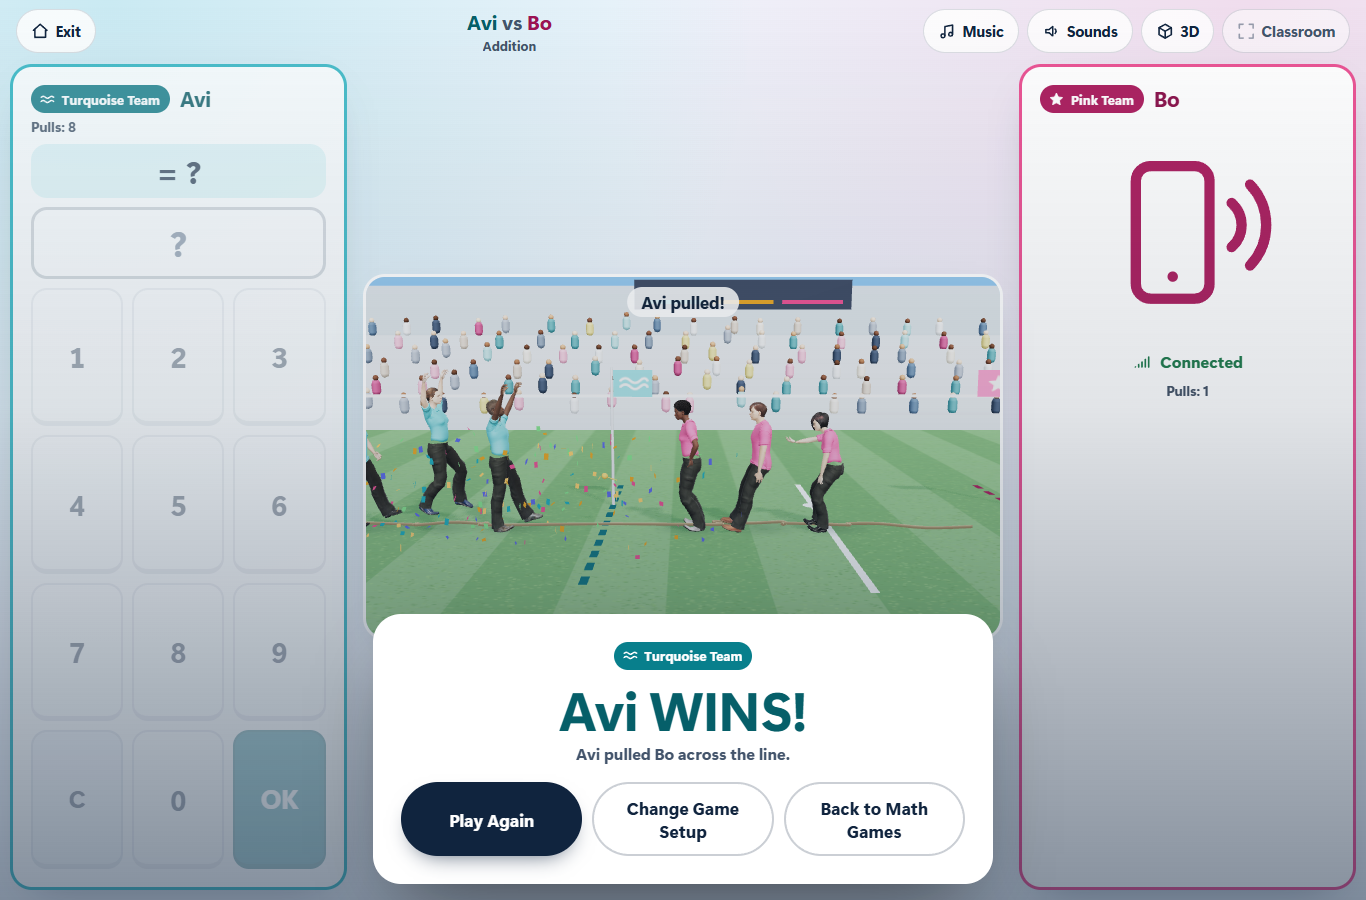
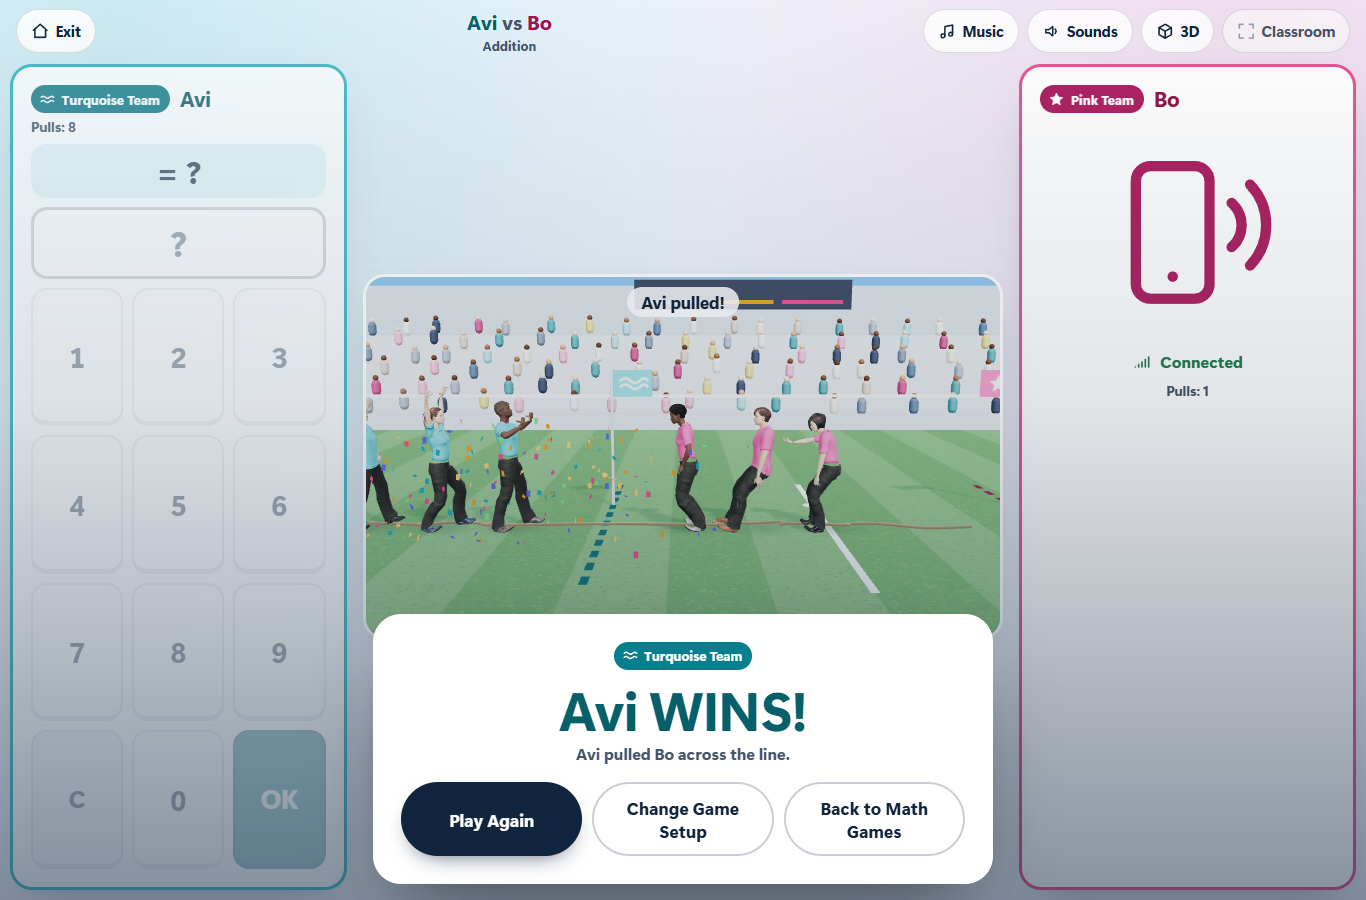
docs(games): Math Tug of War 3D hosted staging round 2 results
Preview dpl_9d6cfMQTAQJuGsd1uCUaumuvoY6M (commit d073832): classic review
99/99, 3D review 37/39 with only the Vercel preview toolbar's CSP refusal
flagged (now treated as preview-only noise by the review script). Round-2
staging screenshots and results recorded; production unchanged.

Changed region(s): [[0.246, 0.3422, 0.6149, 0.5911], [0.4305, 0.3422, 0.4612, 0.3733]]

diff --git a/docs/math-tug-of-war-3d-v1.md b/docs/math-tug-of-war-3d-v1.md
@@ -172,6 +172,10 @@ v1 release and this branch adds no migration.
 (`dpl_D2Mc2wEg3HiueKzqbwKcv2baESAA`, health build `56667b0`). The hosted reviews of that preview found the
 readiness regression described in §5 and it is fixed on the branch; the next push builds the preview to review.
 
+**Round 2 (the build to review).** Push of `d073832` built preview `dpl_9d6cfMQTAQJuGsd1uCUaumuvoY6M`
+(`https://mathnexa-platform-staging-5elpskrut-bright-path-ed-tech.vercel.app`, READY, commit `d073832`);
+`mathnexa.com` still serves `dpl_D2Mc2wEg3HiueKzqbwKcv2baESAA` (health build `56667b0`). Hosted review results: **classic review 99/99** (free-account path, six skills, keypad, Smart Board, phones 320–430, iPad WebKit, reduced motion, Online Match host/guest across Chromium and WebKit with disconnect, reconnect, win, rematch, leave, and two non-subscribers; the round-1 failures are gone); **3D review 37/39** with every hash, asset, CSP, device, fallback and online-3D check passing; the two flags were the Vercel preview toolbar script (`vercel.live/_next-live/feedback/feedback.js`) being refused by the game's own CSP, which is preview-only and exactly what the CSP should do (now filtered as noise), plus one harmless Direct3D shader-compiler precision note. Hosted frame times 6.4–9.4 ms (medium tier) on desktop, phones, Smart Board, iPad WebKit and WebKit desktop; hands on the rope with zero reach miss on every device. Screenshots and `staging-3d-results.json` in `owner-review/math-tug-of-war-3d-v1/staging/`.
+
 **Rollback plan.** A preview deployment is isolated: it has no custom domain and no alias. To
 withdraw it, delete the deployment in Vercel (or leave it; protected previews expire with the
 branch). Production is untouched: `https://mathnexa.com` stays on its current deployment
